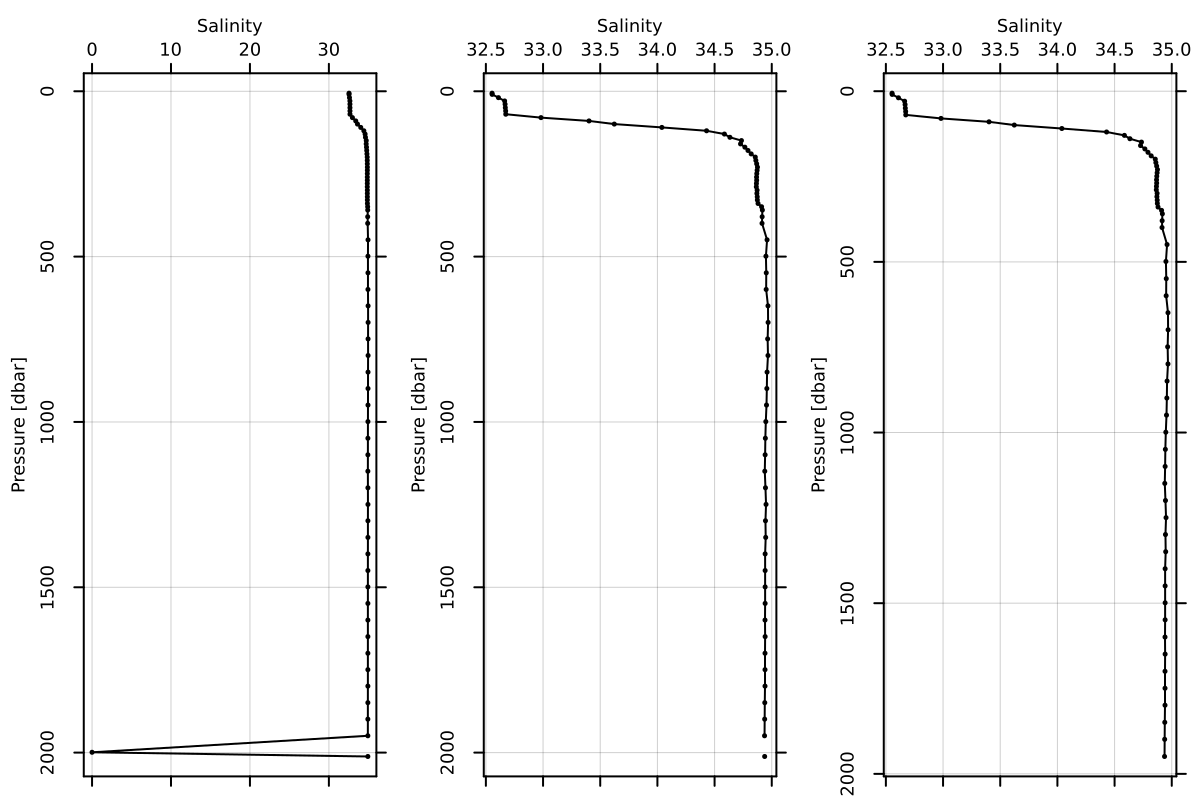
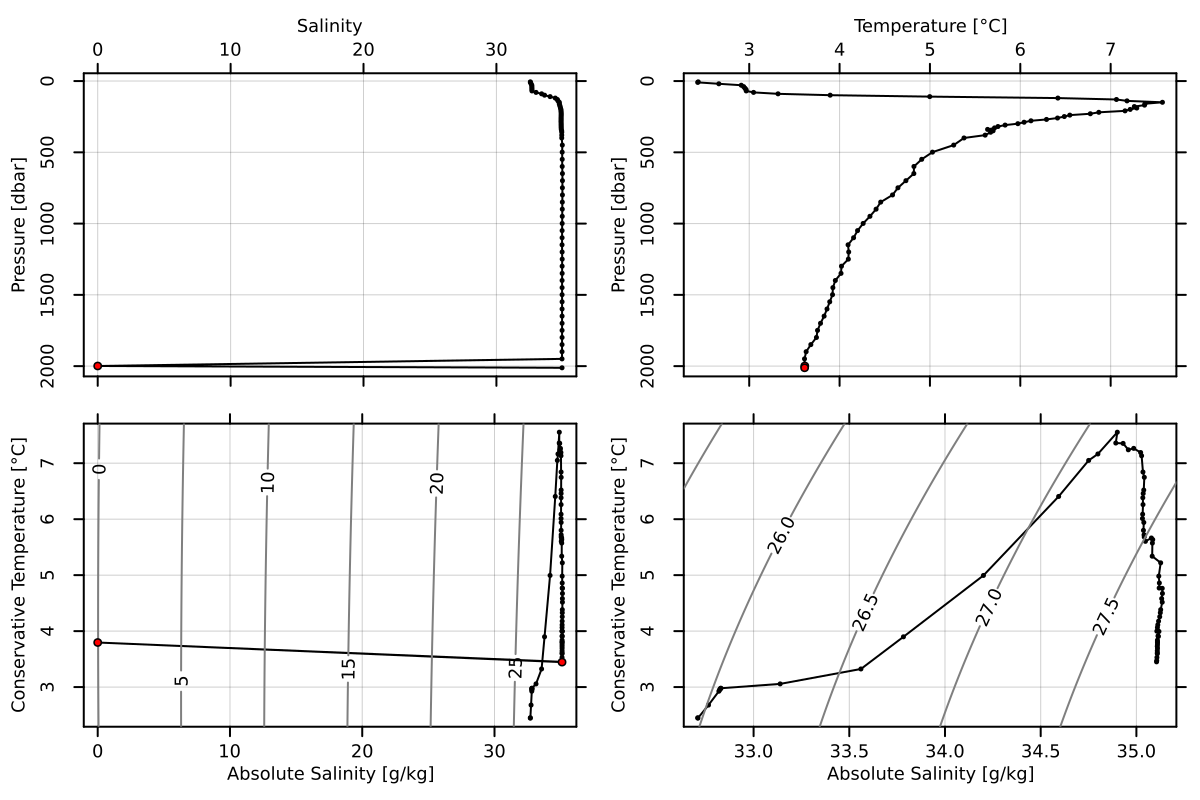
Improve argo QC example (plots and text)

diff --git a/docs/src/examples.md b/docs/src/examples.md
@@ -83,22 +83,45 @@ savefig("argo_profile.png")
 
 ### Argo quality-control handling
 
-The following illustrates the two ways in which [`handle_qc`](@ref) works.
-Left: salinity profile.  Middle: after changing questionable data values to
-NaN.  Right: removing all data from any pressure level in which the salinity,
-temperature or pressure is questionable.
+The following illustrates the use of [`handle_qc`](@ref) for Argo data. The top
+row shows salinity and temperature profiles, with red dots for points marked
+with quality-control (QC) values other than `'1'`.  (Note that Argo QC values
+are stored as characters, not as numbers.) The bottom row shows a TS diagrams
+for the raw data and the cleaned-up data. Note that the salinity errors are so
+large as to control the plot scales in the left-hand panels. This is not an
+uncommon situation, and so it is a good idea to handle QC flags early in
+analysis procedures. However, sometimes the flags seem to be in error, and so a
+prudent analyst will start by plotting as in the top row.  *Exercise:* add a
+middle row showing just the cleaned-up profiles.
+
+plotting 
 
 ```julia
+# Illustrate QC processing of hydrographic data
 using OceanAnalysis, Plots
 f = joinpath(dirname(dirname(pathof(OceanAnalysis))), "data", "D4901076_139.nc")
-a = read_argo(f);
-b = handle_qc(a);
-c = handle_qc(a, action=:delete);
-pa = plot_profile(as_ctd(a); which="salinity", dpi=200, fontsize=6)
-pb = plot_profile(as_ctd(b); which="salinity", dpi=200, fontsize=6)
-pc = plot_profile(as_ctd(c); which="salinity", dpi=200, fontsize=6)
-plot(pa, pb, pc, layout=(1, 3))
+argo = read_argo(f);
+ctd = as_ctd(argo);
+ctd_clean = handle_qc(ctd);
+
+ul = plot_profile(ctd; which="salinity", dpi=200, fontsize=6)
+badS = ctd["salinity_qc"] .!= '1'
+scatter!(ctd["salinity"][badS], ctd["pressure"][badS], color=:red, markersize=2)
+
+ur = plot_profile(ctd; which="temperature", dpi=200, fontsize=6)
+badT = ctd["temperature_qc"] .!= '1'
+scatter!(ctd["temperature"][badT], ctd["pressure"][badT], color=:red, markersize=2)
+
+ll = plot_TS(ctd, fontsize=6)
+bad = badS .| badT
+scatter!(ctd["SA"][bad], ctd["CT"][bad], color=:red, markersize=2)
+
+lr = plot_TS(ctd_clean, fontsize=6)
+
+plot(ul, ur, ll, lr, layout=(2, 2))
 savefig("argo_qc.png")
+
+
 ```
 
 ![Argo search results](argo_qc.png)
